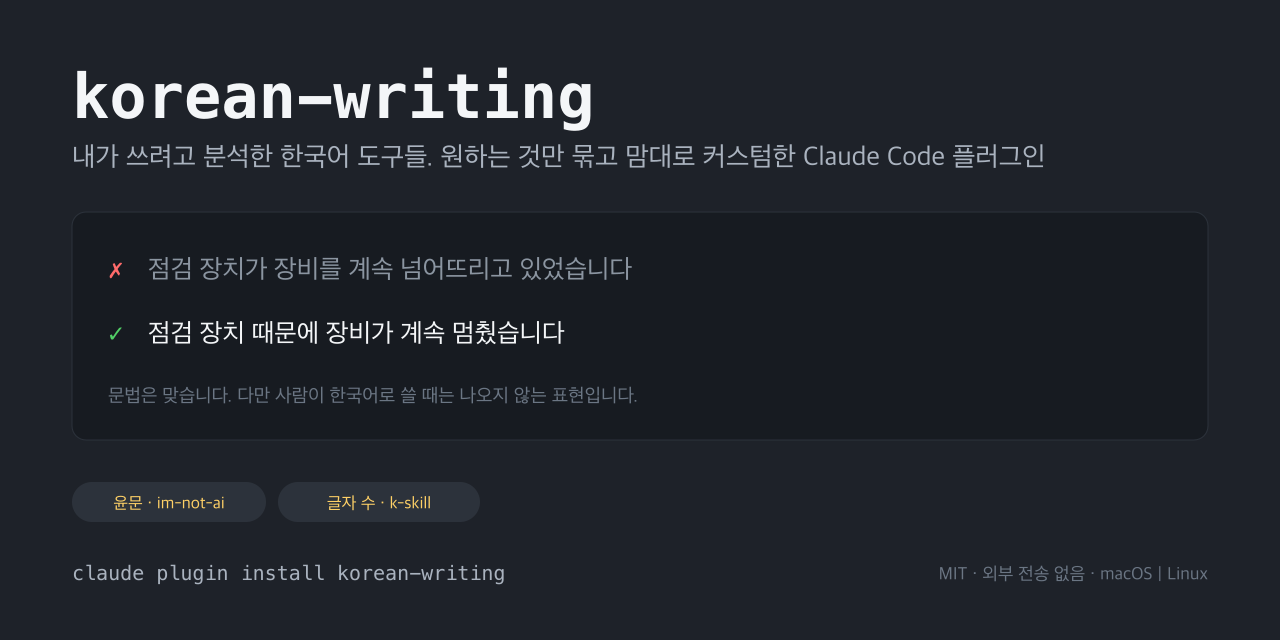
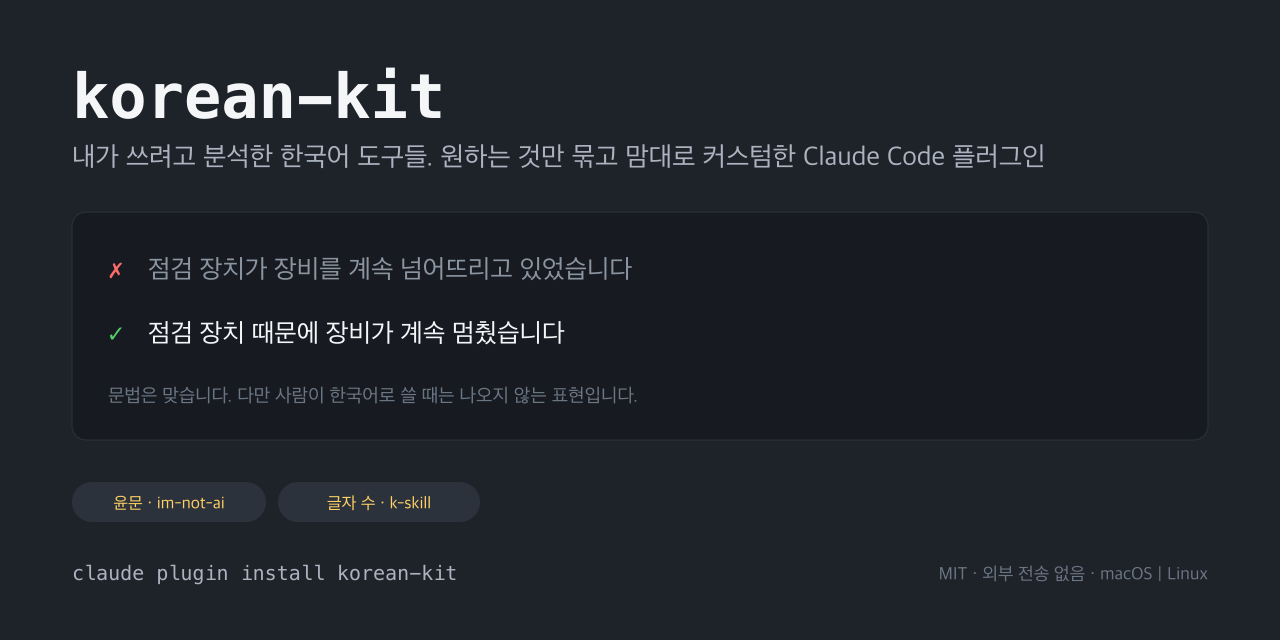
refactor: 이름을 korean-writing 에서 korean-kit 으로 바꿈
작성 스킬을 2026-09-15 에 뺀 뒤로 이 묶음은 글을 쓰지 않습니다. 이미 쓴 글을 다듬거나
글자 수를 셉니다. 이름의 writing 이 없는 기능을 약속하고 있었고, 슬래시 호출도
/korean-writing:humanize 처럼 뜻이 겹쳐 읽혔습니다. kit 은 이 저장소가 스스로 규정한
「원하는 것만 골라 묶은 것」에 맞고, 앞으로 검사 규칙이 들어와도 이름을 다시 바꾸지
않아도 됩니다.

설치와 호출이 이렇게 바뀝니다.

    claude plugin marketplace add IsthisLee/korean-kit
    claude plugin install korean-kit
    /korean-kit:humanize

바꾼 곳은 두 매니페스트의 이름과 주소, 루트 문서 여섯, 이슈 양식 둘, 릴리스 스크립트와
워크플로, CI 전용 npm 패키지 이름, 그림 세 장입니다. 그림은 tools/render-hero.py 로 다시
그렸고 소셜 카드는 PNG 까지 다시 만들었습니다. 잠금 파일은 손으로 고치지 않고
npm install --package-lock-only 로 다시 만들었습니다.

덤으로 옛 훅의 잔재 둘을 치웠습니다. docs/samples/humanize-run.md 첫 줄의 검사 제외
표시와, korean-character-count/SKILL.md 가 없어진 작성 스킬을 가리키던 문장입니다.
후자는 NOTICE.md 에 「원본을 바탕으로 다시 씀」으로 적힌 파일입니다.

이미 깔아 둔 기기는 다시 깔아야 합니다. 매니페스트 이름만 바꾸고 marketplace update 를
돌려도 등록된 이름이 옛것으로 남는 것을 앞선 개명에서 확인했습니다. 옛 저장소 주소는
GitHub 이 새 주소로 넘겨줍니다.

확인: claude plugin validate . --strict 통과, py_compile 9개 통과,
shellcheck 통과, 저장소에 남은 옛 이름은 개명을 설명하는 변경 기록 한 줄뿐.

Changed region(s): [[0.25, 0.0938, 0.4688, 0.2188], [0.3125, 0.875, 0.4062, 0.9062]]

diff --git a/tools/render-hero.py b/tools/render-hero.py
@@ -58,7 +58,7 @@ def render(theme):
     c = THEME[theme]
     o = [f'<svg xmlns="http://www.w3.org/2000/svg" width="{W}" height="{H}" viewBox="0 0 {W} {H}">',
          f'<rect width="{W}" height="{H}" rx="16" fill="{c["bg"]}"/>',
-         t(M, 112, "korean-writing", 56, c["text"], 700, MONO),
+         t(M, 112, "korean-kit", 56, c["text"], 700, MONO),
          t(W - M, 84, TEXT["tag1"], 20, c["dim"], 400, anchor="end"),
          t(W - M, 116, TEXT["tag2"], 24, c["text"], 700, anchor="end"),
          f'<line x1="{M}" y1="148" x2="{W - M}" y2="148" stroke="{c["rule"]}" stroke-width="2"/>',
@@ -78,7 +78,7 @@ def render(theme):
         o.append(f'<rect x="{x:.0f}" y="{y}" width="{sw:.0f}" height="72" rx="12" fill="{c["stage"]}"/>')
         o.append(t(x + 20, y + 30, head, 15, c["chipt"], 700))
         o.append(t(x + 20, y + 54, body, 17, c["text"]))
-    o.append(t(M, H - 36, "claude plugin install korean-writing", 18, c["dim"], 400, MONO))
+    o.append(t(M, H - 36, "claude plugin install korean-kit", 18, c["dim"], 400, MONO))
     o.append(t(W - M, H - 36, TEXT["foot"], 16, c["dim"], 400, anchor="end"))
     o.append("</svg>")
     return "\n".join(o) + "\n"

diff --git a/CHANGELOG.md b/CHANGELOG.md
@@ -12,11 +12,12 @@
 
 ### 변경
 
+- **이름을 `korean-writing` 에서 `korean-kit` 으로 바꿨습니다.** 작성 스킬을 2026-09-15 에 뺀 뒤로 이 묶음은 글을 쓰지 않고 이미 쓴 글을 다듬거나 셉니다. `writing` 이 없는 기능을 약속하고 있었습니다. 저장소·마켓플레이스·플러그인·스킬 이름공간이 모두 바뀌어 설치는 `claude plugin marketplace add IsthisLee/korean-kit` 과 `claude plugin install korean-kit`, 윤문 호출은 `/korean-kit:humanize` 입니다. 이미 깔아 둔 기기는 다시 깔아야 합니다. 매니페스트 이름만 바꾸고 `claude plugin marketplace update` 를 돌려도 등록된 이름이 옛것으로 남는 것을 앞선 개명에서 확인했습니다. 옛 저장소 주소는 GitHub 이 새 주소로 넘겨줍니다
 - **분석 장비와 분석 문서를 별도 저장소로 옮겼습니다.** 사람 글과 Claude 글을 모으고 지표를 재는 스크립트, 분석 계획서, 비교 분석 안내, 파일럿 결과가 [korean-ai-signals](https://github.com/IsthisLee/korean-ai-signals) 로 갔습니다. 옮긴 뒤 계획서는 검증된 외부 지표만 쓰는 판으로 다시 썼고, 두 저장소의 커밋 이력은 이 정리를 마치며 각각 하나로 합쳤습니다. 분석기는 Kiwi·spaCy·SciPy 와 Common Crawl 접속이 필요해서, 네트워크를 쓰지 않고 의존성이 없는 이 플러그인과 한 저장소에 두기 어려웠습니다. 이 저장소에는 결과 요약과 링크만 남습니다
 - **README 를 분석 계획을 마친 상태 기준으로 다시 썼습니다.** 컨셉은 「내가 쓰려고 분석한 한국어 도구들. 원하는 것만 묶고 맘대로 커스텀한 Claude Code 플러그인」입니다. 묶은 기능과 따로 쓰는 것(권하는 output style, AI 신호 검사기)마다 어떻게 골랐는지, 묶으며 고친 것, 비교 순서와 도구 비교 기준, 검사기·output style·윤문 도구의 결과표를 담았습니다. 본 측정 전이라 결과 칸은 「측정 전」으로 두고 맨 위에 그 사실을 적었습니다. 표본을 학습에 쓰지 않고 검사 도구를 검증하는 데만 쓴다는 안내는 그대로 두었습니다. 파일 수정 연도로 사람 글을 추정한 오탐 수치와 기능만 견준 다른 도구 비교표는 뺐습니다
 - **소개 문구를 「내가 쓰려고 분석한 한국어 도구들. 원하는 것만 묶고 맘대로 커스텀한 Claude Code 플러그인」으로 바꿨습니다.** `plugin.json`·`marketplace.json` 의 설명, `tools/render-hero.py` 로 다시 그린 README 맨 위 그림, 소셜 카드 SVG·PNG 를 같이 바꿨습니다
 - **`docs/` 의 그림을 `docs/assets/` 로 모았습니다.** README 두 판의 그림 경로와 `tools/render-hero.py`·`render-hook-output.py`·`render-before-after.py` 의 출력 경로를 함께 고쳤고, 세 스크립트로 다시 그린 결과가 옮기기 전과 같은 파일인 것을 확인했습니다
-- **저장소와 마켓플레이스 이름에서 `claude-` 를 뗐습니다.** 저장소는 `IsthisLee/korean-writing`, 마켓플레이스는 `korean-writing` 입니다. 새로 까는 사람은 `claude plugin marketplace add IsthisLee/korean-writing` 과 `claude plugin install korean-writing@korean-writing` 을 씁니다. 이미 깐 사람은 할 일이 없습니다. 격리한 HOME 에서 옛 이름으로 깔아 둔 뒤 매니페스트의 이름만 바꾸고 `claude plugin marketplace update` 를 돌리니 등록 이름은 `claude-korean-writing` 그대로였고 플러그인도 `korean-writing@claude-korean-writing` 으로 켜져 있었습니다. 새 이름으로 깨끗한 HOME 에 깔아 훅 매니페스트까지 들어가는 것도 확인했습니다. 플러그인 이름과 스킬 이름, 설정 파일 `.korean-writing.json` 은 그대로입니다. 옛 저장소 주소는 GitHub 이 새 주소로 넘겨줍니다
+- **저장소와 마켓플레이스 이름에서 `claude-` 를 뗐습니다.** 저장소는 `IsthisLee/korean-kit`, 마켓플레이스는 `korean-kit` 입니다. 새로 까는 사람은 `claude plugin marketplace add IsthisLee/korean-kit` 과 `claude plugin install korean-kit@korean-kit` 을 씁니다. 이미 깐 사람은 할 일이 없습니다. 격리한 HOME 에서 옛 이름으로 깔아 둔 뒤 매니페스트의 이름만 바꾸고 `claude plugin marketplace update` 를 돌리니 등록 이름은 `claude-korean-kit` 그대로였고 플러그인도 `korean-kit@claude-korean-kit` 으로 켜져 있었습니다. 새 이름으로 깨끗한 HOME 에 깔아 훅 매니페스트까지 들어가는 것도 확인했습니다. 플러그인 이름과 스킬 이름, 설정 파일 `.korean-kit.json` 은 그대로입니다. 옛 저장소 주소는 GitHub 이 새 주소로 넘겨줍니다
 - **README 맨 위를 배너 대신 한 장짜리 그림으로 바꿨습니다.** Claude Code가 실제로 쓴 문장과 규칙대로 고친 문장을 규칙 코드와 함께 큰 글씨로 보여 주고 처음 작성할 때·저장할 때·수정할 때 세 시점을 아래에 둡니다. `tools/render-hero.py` 가 한국어·영어, 어두운 테마·밝은 테마 네 장을 그리고 왼쪽 문장이 정답 데이터에 없으면 멈춥니다. 옛 배너 넷은 지웠습니다
 - **「같은 요청, 두 결과」 그림을 공지에서 칼럼으로 바꾸고 판정자가 짚은 문장만 큰 글씨로 실었습니다.** 공지 예시는 스킬 쪽이 줄글이라 읽기 어렵고 글씨가 작았습니다. 릴리스 노트로도 붙여 봤지만 판정이 순서에 따라 갈려 쓰지 않았습니다(`EVALUATION.md` J)
 - **전후 비교 그림을 같은 자리끼리 짝지어 다시 그렸습니다.** 두 글에서 짚은 문장을 각각 따로 늘어놓으니 무엇과 무엇을 견주는지 보이지 않았습니다. 이제 여는 대목·같은 사실을 말하는 대목·제안하는 대목·마지막 문장을 줄마다 나란히 놓고 판정문에 그대로 나온 표현에만 「판정자가 짚은 곳」 을 답니다. 표시한 표현이 `judge.json` 에 없으면 그림을 그리다 멈춥니다. 한쪽에만 있던 「본문 뒤 안내」는 뺐습니다. 판정에 넣는 본문에서도 걷어내는 부분이라 그림에 실을 자리가 아닙니다
@@ -27,13 +28,13 @@
 
 ### 제거
 
-- **저장할 때 검사하던 훅과 그 규칙, 옛 측정 기록을 전부 뺐습니다.** `PostToolUse` 훅(`plugin/hooks/hooks.json`·`plugin/hooks-handlers/posttooluse.sh`), 판정 스크립트 `plugin/scripts/check.sh`, 슬래시 명령 `/korean-writing:check`, 회귀 테스트 `tests/`, 판정 기준과 측정 기록을 담은 `EVALUATION.md`, 측정 장비 `tools/measure.sh`·`tools/render-hook-output.py`, 훅을 재던 실험 `docs/experiments/`, 규칙 제보용 이슈 양식 둘이 없어졌습니다. K 규칙은 제 경험으로 정한 것이고 사람 글과 비교한 근거가 없었습니다. 검사 규칙은 [korean-ai-signals](https://github.com/IsthisLee/korean-ai-signals) 의 비교 분석에서 검증된 지표가 나오면 그때 새로 만듭니다. 설치해도 저절로 도는 프로그램은 이제 없고, 플러그인 설정 `edit_check`·`disabled_rules` 도 함께 없앴습니다. 커밋 직전 검사(`.githooks/pre-commit`)에는 개인 식별 정보 가드만 남았고, 그 문서 검사를 다른 저장소에 깔아 주던 `tools/install-git-hook.sh` 도 지웠습니다
+- **저장할 때 검사하던 훅과 그 규칙, 옛 측정 기록을 전부 뺐습니다.** `PostToolUse` 훅(`plugin/hooks/hooks.json`·`plugin/hooks-handlers/posttooluse.sh`), 판정 스크립트 `plugin/scripts/check.sh`, 슬래시 명령 `/korean-kit:check`, 회귀 테스트 `tests/`, 판정 기준과 측정 기록을 담은 `EVALUATION.md`, 측정 장비 `tools/measure.sh`·`tools/render-hook-output.py`, 훅을 재던 실험 `docs/experiments/`, 규칙 제보용 이슈 양식 둘이 없어졌습니다. K 규칙은 제 경험으로 정한 것이고 사람 글과 비교한 근거가 없었습니다. 검사 규칙은 [korean-ai-signals](https://github.com/IsthisLee/korean-ai-signals) 의 비교 분석에서 검증된 지표가 나오면 그때 새로 만듭니다. 설치해도 저절로 도는 프로그램은 이제 없고, 플러그인 설정 `edit_check`·`disabled_rules` 도 함께 없앴습니다. 커밋 직전 검사(`.githooks/pre-commit`)에는 개인 식별 정보 가드만 남았고, 그 문서 검사를 다른 저장소에 깔아 주던 `tools/install-git-hook.sh` 도 지웠습니다
 - **영어 README(`README.en.md`)를 뺐습니다.** README 는 한국어판 하나만 둡니다. 한국어 README 의 언어 전환 링크, `tools/release.sh` 와 CI 「버전 표기 일치」의 배지 검사 대상, PR 템플릿의 두 README 동시 수정 항목, SUPPORT.md·CONTRIBUTING.en.md 의 참조를 함께 고쳤습니다
 - **남은 영어 문서와 영어 그림을 뺐습니다.** `CONTRIBUTING.en.md`, `SUPPORT.md` 의 영어 절, 영어 README 만 쓰던 `docs/assets/hero.en.svg`·`hero-light.en.svg` 를 지웠습니다. `tools/render-hero.py` 는 한국어 그림 두 장만 그리고, 고친 스크립트가 그린 결과가 지금의 `hero.svg`·`hero-light.svg` 와 같은 것을 확인했습니다. `CONTRIBUTING.md`·`SUPPORT.md` 의 언어 전환 링크, `CONTRIBUTING.md` 의 README 두 판을 같이 고치라는 안내, PR 템플릿의 영어 기여 안내도 함께 지웠습니다. `SECURITY.md` 의 영어 절은 남겨 두었습니다
 - **뺀 기능을 재던 옛 실험과 문서를 지웠습니다.** 뺀 상시 주입·작성 스킬·저장소 output style 을 재던 `docs/experiments/always-on/`·`output-style/`·`skill-vs-imnotai/`·`writing-skill.md`, `detail-retention/` 의 `injection/`·`skill/`, 그런 문서를 가리키던 `docs/foundations.md`, `EVALUATION.md` 의 B·C·F·G·H·J·L·M·N 절과 그 측정 결과표를 지웠습니다. 남은 `EVALUATION.md` 는 검사 훅의 기준과 기록(A·D·E·I·K·O)입니다. 지우기 전 판은 커밋 `92b1e47` 에 있습니다
 - **지운 기능의 잔여물을 치웠습니다.** README 가 더는 쓰지 않는 칼럼 비교 그림과 그 재료·그림 스크립트(`docs/assets/before-after-column.svg`, `docs/samples/before-after/`, `tools/render-before-after.py`), 뺀 주입과 작성 스킬만 재던 `docs/experiments/task-performance/`, 지운 `sessionstart.sh` 를 실행하던 `docs/experiments/always-on/run.sh`·`settings-on.json` 을 지웠습니다. 지우기 전 판은 커밋 `b2e2089` 에 있습니다. README 두 판의 v2.1.0 안내문(뺀 스킬 적용 확인 기능 소개), 소셜 카드의 「쓸 때 · 작성 스킬」 칸, SECURITY.md 영어 절의 「셸 스크립트 둘」·「쉼표를 파일 전체로 셈」, 두 언어의 「스크립트는 408줄」(실제 379줄)도 고쳤습니다
-- **`korean-writing` 작성 스킬을 뺐습니다.** `/korean-writing` 으로 부르던 스킬이 없어졌습니다. 2026-09-14 부터 스스로 뜨지 않았고 평소 답변의 문체는 사용자가 고른 output style 이 맡고 있었습니다. 그 스킬에는 대명사와 주어를 빼라는 조항도 남아 있어 문장 성분을 살려 쓰라는 지침과 부딪혔습니다(`EVALUATION.md` O). 스킬 본문은 측정을 재현할 수 있도록 `docs/experiments/writing-skill.md` 로 옮겼고 스킬로 다시 잡히지 않게 이름을 바꿨습니다. 매니페스트의 스킬 목록과 설명, README 의 「처음 작성할 때」 시점과 「같은 요청, 두 결과」 예시, 맨 위 그림의 시점 칸을 함께 고쳤습니다. 다른 에이전트에 `npx skills` 로 넣던 `-s korean-writing` 도 없어졌습니다
-- **글 작성 요청에 스스로 뜨던 작성 스킬과 쓰기 전 확인 훅, output style 을 뺐습니다.** 평소 답변의 문체는 사용자가 고른 output style 이 맡습니다. 이 플러그인은 저장할 때의 검사와 윤문과 글자 수 세기를 맡습니다. `plugin/SKILL.md` 에 `disable-model-invocation: true` 를 걸어 `/korean-writing` 으로 직접 부를 때만 돕게 했습니다. 확인 훅(`pretooluse-skill.sh`)과 그 회귀 테스트를 지웠습니다. 검사 훅이 확인 창의 거절 답을 읽던 코드와 그 회귀 테스트 9건도 함께 지웠습니다. output style 파일은 M·N 절 측정을 재현할 수 있도록 `docs/experiments/output-style/` 로 옮겼습니다. 이번 판에 넣었던 「적용하고 설명은 넉넉히」 선택지와 추천 표시, 거절한 글의 검사 제외도 이 변경으로 사라졌습니다
+- **`korean-kit` 작성 스킬을 뺐습니다.** `/korean-kit` 으로 부르던 스킬이 없어졌습니다. 2026-09-14 부터 스스로 뜨지 않았고 평소 답변의 문체는 사용자가 고른 output style 이 맡고 있었습니다. 그 스킬에는 대명사와 주어를 빼라는 조항도 남아 있어 문장 성분을 살려 쓰라는 지침과 부딪혔습니다(`EVALUATION.md` O). 스킬 본문은 측정을 재현할 수 있도록 `docs/experiments/writing-skill.md` 로 옮겼고 스킬로 다시 잡히지 않게 이름을 바꿨습니다. 매니페스트의 스킬 목록과 설명, README 의 「처음 작성할 때」 시점과 「같은 요청, 두 결과」 예시, 맨 위 그림의 시점 칸을 함께 고쳤습니다. 다른 에이전트에 `npx skills` 로 넣던 `-s korean-kit` 도 없어졌습니다
+- **글 작성 요청에 스스로 뜨던 작성 스킬과 쓰기 전 확인 훅, output style 을 뺐습니다.** 평소 답변의 문체는 사용자가 고른 output style 이 맡습니다. 이 플러그인은 저장할 때의 검사와 윤문과 글자 수 세기를 맡습니다. `plugin/SKILL.md` 에 `disable-model-invocation: true` 를 걸어 `/korean-kit` 으로 직접 부를 때만 돕게 했습니다. 확인 훅(`pretooluse-skill.sh`)과 그 회귀 테스트를 지웠습니다. 검사 훅이 확인 창의 거절 답을 읽던 코드와 그 회귀 테스트 9건도 함께 지웠습니다. output style 파일은 M·N 절 측정을 재현할 수 있도록 `docs/experiments/output-style/` 로 옮겼습니다. 이번 판에 넣었던 「적용하고 설명은 넉넉히」 선택지와 추천 표시, 거절한 글의 검사 제외도 이 변경으로 사라졌습니다
 
 ### 수정
 
@@ -64,19 +65,19 @@
 
 ### 추가
 
-- **검사 결과에 걸린 자리를 붙입니다.** 규칙마다 셋까지 파일의 줄 번호와 짧은 발췌를 알림에 붙이고 넘치면 「외 N곳」으로 줄입니다. Claude 가 그 자리만 고치고 걸리지 않은 문장은 건드리지 않게 하려는 것입니다. 판정(코드와 횟수)은 예전 경로로 계산하고 위치는 따로 찾습니다. 이 기계의 한글 `.md` 304개를 옛 훅과 새 훅에 같은 입력으로 넣어 판정이 달라진 파일이 0개인 것을 확인했습니다(`EVALUATION.md` K). 알림대로 고친 글의 정보 보존도 같은 조건의 옛 훅과 차이가 없었습니다(I1 재측정, 정보가 사라진 표본 옛 훅 12건 중 0건, 새 훅 17건 중 1건, Fisher 단측 p=0.586). `plugin/scripts/check.sh` 와 `/korean-writing:check` 도 같은 위치를 냅니다
-- **규칙을 골라 끌 수 있습니다.** 파일 머리 10줄 안의 `<!-- korean-writing: disable K1 K9 -->`, 저장소에 커밋하는 `.korean-writing.json`(`disable` 규칙 목록과 `ignore` 경로 패턴), 환경변수 `KOREAN_WRITING_DISABLE_RULES`, 플러그인 설정 `disabled_rules` 넷입니다. 설정 파일은 편집한 파일에서 위로 올라가며 찾고 `.git` 이 있는 폴더에서 멈춥니다. 읽지 못한 설정은 무시하고 검사한 뒤 그 사실을 알립니다. 끄는 방법은 훅의 알림에 적지 않았습니다. 알림에 있으면 Claude 가 표현을 고치는 대신 규칙을 끌 수 있어서입니다. 회귀 테스트 24건을 더해 검사 훅 테스트가 86건이 됐습니다
-- **Claude Code 밖에서도 작성 규칙을 쓸 수 있습니다.** `npx skills add IsthisLee/claude-korean-writing -s korean-writing -s korean-character-count -g` 로 Codex·Cursor 같은 다른 에이전트에 깔립니다. 격리한 HOME 에서 설치와 글자 수 스크립트 실행까지 확인했고 각 에이전트 안의 동작은 확인하지 못했습니다. 훅과 윤문은 Claude Code 에서만 돕니다
+- **검사 결과에 걸린 자리를 붙입니다.** 규칙마다 셋까지 파일의 줄 번호와 짧은 발췌를 알림에 붙이고 넘치면 「외 N곳」으로 줄입니다. Claude 가 그 자리만 고치고 걸리지 않은 문장은 건드리지 않게 하려는 것입니다. 판정(코드와 횟수)은 예전 경로로 계산하고 위치는 따로 찾습니다. 이 기계의 한글 `.md` 304개를 옛 훅과 새 훅에 같은 입력으로 넣어 판정이 달라진 파일이 0개인 것을 확인했습니다(`EVALUATION.md` K). 알림대로 고친 글의 정보 보존도 같은 조건의 옛 훅과 차이가 없었습니다(I1 재측정, 정보가 사라진 표본 옛 훅 12건 중 0건, 새 훅 17건 중 1건, Fisher 단측 p=0.586). `plugin/scripts/check.sh` 와 `/korean-kit:check` 도 같은 위치를 냅니다
+- **규칙을 골라 끌 수 있습니다.** 파일 머리 10줄 안의 `<!-- korean-kit: disable K1 K9 -->`, 저장소에 커밋하는 `.korean-kit.json`(`disable` 규칙 목록과 `ignore` 경로 패턴), 환경변수 `KOREAN_WRITING_DISABLE_RULES`, 플러그인 설정 `disabled_rules` 넷입니다. 설정 파일은 편집한 파일에서 위로 올라가며 찾고 `.git` 이 있는 폴더에서 멈춥니다. 읽지 못한 설정은 무시하고 검사한 뒤 그 사실을 알립니다. 끄는 방법은 훅의 알림에 적지 않았습니다. 알림에 있으면 Claude 가 표현을 고치는 대신 규칙을 끌 수 있어서입니다. 회귀 테스트 24건을 더해 검사 훅 테스트가 86건이 됐습니다
+- **Claude Code 밖에서도 작성 규칙을 쓸 수 있습니다.** `npx skills add IsthisLee/claude-korean-kit -s korean-kit -s korean-character-count -g` 로 Codex·Cursor 같은 다른 에이전트에 깔립니다. 격리한 HOME 에서 설치와 글자 수 스크립트 실행까지 확인했고 각 에이전트 안의 동작은 확인하지 못했습니다. 훅과 윤문은 Claude Code 에서만 돕니다
 - **작성 스킬이 쓰는 사람의 문체를 따릅니다.** 사용자가 자기 글을 표본으로 주면 종결어미·문장 길이·낱말·문장 부호를 표본에 맞추고 이 규칙보다 표본을 먼저 둡니다. 이미 있는 문서를 고칠 때는 그 문서의 격식을 그대로 둡니다. [humanizer](https://github.com/blader/humanizer) 의 Voice 절과 im-not-ai 규칙집의 register 보존을 따랐습니다. 표본이 없는 과제로 다시 잰 J3 에서 세부 보존은 앞 판과 같았습니다. 고친 블라인드 판정 스크립트로 im-not-ai 윤문본과 기본 네 쌍을 붙여 3승 1패였고 진 쌍은 `~할 수 있다` 가 되풀이된 짧은 공지였습니다(`EVALUATION.md` J)
 - `tools/render-hook-output.py` 가 README 의 훅 출력 그림을 다시 그립니다. 정답 데이터 문장으로 문서를 만들어 실제 훅에 넣고 그 출력을 그대로 옮깁니다. 손으로 그렸던 그림을 누구나 재현할 수 있게 됐습니다
 
 ### 변경
 
-- SECURITY.md 의 「읽는 것」에 `.korean-writing.json` 을 더했습니다. 검사 훅의 import 에 표준 라이브러리 `fnmatch` 가 늘었습니다
+- SECURITY.md 의 「읽는 것」에 `.korean-kit.json` 을 더했습니다. 검사 훅의 import 에 표준 라이브러리 `fnmatch` 가 늘었습니다
 
 ### 제거
 
-- **`crafting-effective-readmes` 스킬을 뺐습니다.** 한국어 산문과 관계없는 README 구조 스킬이었고 설명이 영어라 영어 README 요청에도 떴습니다. 지난 측정값으로 상시 컨텍스트의 스킬 설명 몫 약 70 토큰이 빠집니다. 이 스킬을 쓰던 사람은 원본 [agent-skills](https://github.com/joshuadavidthomas/agent-skills) 에서 받을 수 있습니다. README 를 쓰는 요청의 문장은 계속 `korean-writing` 스킬이 맡습니다
+- **`crafting-effective-readmes` 스킬을 뺐습니다.** 한국어 산문과 관계없는 README 구조 스킬이었고 설명이 영어라 영어 README 요청에도 떴습니다. 지난 측정값으로 상시 컨텍스트의 스킬 설명 몫 약 70 토큰이 빠집니다. 이 스킬을 쓰던 사람은 원본 [agent-skills](https://github.com/joshuadavidthomas/agent-skills) 에서 받을 수 있습니다. README 를 쓰는 요청의 문장은 계속 `korean-kit` 스킬이 맡습니다
 
 ### 수정
 
@@ -86,7 +87,7 @@
 
 ### 추가
 
-- **모델이 `korean-writing` 스킬을 스스로 부르기 전에 적용할지 묻습니다.** 새 PreToolUse 훅 `pretooluse-skill.sh` 가 이 스킬의 `Skill` 호출에 `permissionDecision: "ask"` 를 돌려줍니다. 문체 규칙을 답변에 주입했을 때 세부가 빠진 것(`EVALUATION.md` H13)과 같은 규칙집을 쓰므로 세부를 잃으면 안 되는 문서라면 쓰기 전에 거절할 수 있게 했습니다. 거절하면 규칙 없이 씁니다. 헤드리스 실측에서 평범한 글 요청에 모델이 스스로 이 스킬을 부를 때 훅이 걸렸고 기본 모드와 bypass 모드 모두 확인 없이는 스킬이 돌지 않았습니다. 사용자가 `/korean-writing` 을 직접 친 실행은 훅에 걸리지 않았습니다. 대화형 세션의 확인 창은 공식 문서의 설명이고 직접 보지는 못했습니다. 다른 스킬과 도구는 그대로 지나가고 `KOREAN_WRITING_HOOK_DISABLED=1` 이면 묻지 않습니다. 묻는 문장은 한국어이고 모델이 넘긴 요청 요약을 60자까지 「」 안에 보여 줍니다. 예: 「운영팀에 보낼 슬랙 공지를 3줄로 작성…」 작성에 korean-writing 문체 규칙을 적용할까요? 요청에 적은 내용은 그대로 담지만 Claude 가 덧붙이는 설명은 짧아질 수 있습니다. 이 주의 문구는 스킬로 직접 잰 결과만큼만 말합니다(`EVALUATION.md` J3). 요청에 적어 준 사실 27항목은 스킬을 켜도 모두 담겼고, 사실을 주지 않은 설명 문서는 한글 661자에서 450자로 짧아지며 곁가지 설명 하나가 8/8 에서 3/8 로 줄었습니다. 같은 글자 수의 무관한 문서를 붙인 대조군에서는 그런 차이가 없었습니다. 확인 창에 이 사유가 보이는지 공식 문서에 적혀 있지 않아 같은 문장을 `systemMessage` 로도 냅니다. 회귀 테스트 22건을 `tests/test_pretooluse.py` 로 넣었습니다
+- **모델이 `korean-kit` 스킬을 스스로 부르기 전에 적용할지 묻습니다.** 새 PreToolUse 훅 `pretooluse-skill.sh` 가 이 스킬의 `Skill` 호출에 `permissionDecision: "ask"` 를 돌려줍니다. 문체 규칙을 답변에 주입했을 때 세부가 빠진 것(`EVALUATION.md` H13)과 같은 규칙집을 쓰므로 세부를 잃으면 안 되는 문서라면 쓰기 전에 거절할 수 있게 했습니다. 거절하면 규칙 없이 씁니다. 헤드리스 실측에서 평범한 글 요청에 모델이 스스로 이 스킬을 부를 때 훅이 걸렸고 기본 모드와 bypass 모드 모두 확인 없이는 스킬이 돌지 않았습니다. 사용자가 `/korean-kit` 을 직접 친 실행은 훅에 걸리지 않았습니다. 대화형 세션의 확인 창은 공식 문서의 설명이고 직접 보지는 못했습니다. 다른 스킬과 도구는 그대로 지나가고 `KOREAN_WRITING_HOOK_DISABLED=1` 이면 묻지 않습니다. 묻는 문장은 한국어이고 모델이 넘긴 요청 요약을 60자까지 「」 안에 보여 줍니다. 예: 「운영팀에 보낼 슬랙 공지를 3줄로 작성…」 작성에 korean-kit 문체 규칙을 적용할까요? 요청에 적은 내용은 그대로 담지만 Claude 가 덧붙이는 설명은 짧아질 수 있습니다. 이 주의 문구는 스킬로 직접 잰 결과만큼만 말합니다(`EVALUATION.md` J3). 요청에 적어 준 사실 27항목은 스킬을 켜도 모두 담겼고, 사실을 주지 않은 설명 문서는 한글 661자에서 450자로 짧아지며 곁가지 설명 하나가 8/8 에서 3/8 로 줄었습니다. 같은 글자 수의 무관한 문서를 붙인 대조군에서는 그런 차이가 없었습니다. 확인 창에 이 사유가 보이는지 공식 문서에 적혀 있지 않아 같은 문장을 `systemMessage` 로도 냅니다. 회귀 테스트 22건을 `tests/test_pretooluse.py` 로 넣었습니다
 
 ### 변경
 
@@ -111,7 +112,7 @@
 - **네트워크를 쓰지 않는다는 약속을 CI 가 지킵니다.** README 와 SECURITY.md 가 전부터 이것을 약속했는데 지키는 것은 사람의 주의뿐이었습니다. 설치본인 `plugin/` 아래 실행 파일 16개에서 `urllib`·`socket`·`fetch(`·`curl`·`wget` 같은 표지를 찾고 하나라도 있으면 막습니다. 훅에 `curl` 한 줄, 내장 스크립트에 `import urllib.request` 한 줄을 심어 둘 다 파일과 줄 번호까지 잡는 것을 확인했고 같은 단어를 주석에만 넣었을 때는 걸리지 않았습니다. `plugin/` 에서 실행 파일을 하나도 찾지 못하면 경로가 바뀐 것으로 보고 그것부터 알립니다
 - **OpenSSF Scorecard 를 매주 돌립니다.** 브랜치 보호, 리뷰 여부, 액션 고정, 위험한 워크플로 패턴, 토큰 권한을 점수로 냅니다. 결과는 Security 탭에 올라갑니다. 아직 한 번도 돌지 않아 점수를 적지 못합니다
 
-- **`/korean-writing:check` 를 넣었습니다.** 써 둔 문서를 편집 훅과 같은 기준으로 검사하고 걸린 자리를 짚은 뒤 고칠지 묻습니다. 전에는 `scripts/check.sh` 가 저장소 안에만 있어 플러그인을 설치한 사람은 이미 저장한 문서를 검사할 방법이 없었습니다
+- **`/korean-kit:check` 를 넣었습니다.** 써 둔 문서를 편집 훅과 같은 기준으로 검사하고 걸린 자리를 짚은 뒤 고칠지 묻습니다. 전에는 `scripts/check.sh` 가 저장소 안에만 있어 플러그인을 설치한 사람은 이미 저장한 문서를 검사할 방법이 없었습니다
 - **플러그인 설정으로 검사 훅을 끕니다.** `plugin.json` 에 `userConfig` 를 넣어 `edit_check` 를 `/plugin` 에서 켜고 끕니다. 환경변수도 그대로 듣습니다. 매니페스트에 `license` 와 `homepage` 도 넣었습니다
 - **주입이 일을 방해하지 않는지 재는 실험을 넣었습니다.** 이 저장소의 측정은 전부 글이 좋아졌는가만 봤고 규칙을 넣어서 모델이 일을 덜 잘하게 되는지는 잰 적이 없었습니다. `docs/experiments/task-performance/` 가 넷을 봅니다. 기술 문제 정답률(Haiku 40/40 대 39/40, Opus 30/30 대 29/30), 규칙과 반대되는 것을 사용자가 명시로 요청했을 때의 준수(주입 있음 25/25, 주입 없음 23/25), 코드 품질(모델이 쓴 함수를 실제로 돌려 숨은 테스트에 넣습니다. 양쪽 만점이라 이 과제로는 못 가립니다), 설계 능력(빠지면 설계가 틀리는 개념이 나왔는지 셉니다. 여기서 저하가 나왔습니다), 서브에이전트 조사 정확도와 답변 언어(양쪽 6/6, 한글 누출 2% 이하), 코드 작업에서의 스킬 오발동(양쪽 0건, 양성 대조 1건)입니다. 정답률은 두 조건이 거의 만점이라 10%p 를 넘는 저하만 배제됩니다. 그 한계를 EVALUATION.md 의 H 절에 적었습니다
 - **재는 영역을 넷 더 넓혔습니다.** 코드 리뷰(심어 둔 결함 다섯을 몇 개 찾는가), 정보 보존(요약이 원문의 사실 열둘을 얼마나 지키는가), 과잉 단정(정보가 없을 때 없다고 말하는가), 디버깅(원인이 되는 줄을 짚는가)입니다. 넷 다 차이 구간이 0 을 품습니다. 주입을 받은 쪽이 대체로 짧은데(리뷰 1,172자 대 928자, 요약 1,320자 대 1,030자) 결함 검출과 사실 보존은 갈리지 않았습니다. 설계와 다른 점은 열거할 항목이 정해져 있느냐입니다. 판정 기준은 `EVALUATION.md` 의 H7~H10 입니다
@@ -121,7 +122,7 @@
 - **`scripts/install-git-hook.sh`.** 커밋 직전에 스테이지된 `.md` 를 검사하는 git 훅을 깝니다. README 가 전부터 pre-commit 을 약속하고 있었는데 깔 방법이 없었습니다. 이미 다른 `pre-commit` 이 있으면 덮어쓰지 않고 넣을 두 줄만 알려 줍니다
 - **`scripts/check.sh --all`.** `git ls-files` 로 저장소가 쓴 `.md` 를 열거해 검사합니다. 가져온 파일만 뺍니다
 
-- **`korean-writing` 스킬을 im-not-ai 규칙집 수준으로 올렸습니다.** 그 규칙집의 `quick: true` 항목 61개 가운데 처방을 가진 것이 21개였는데 60개가 됐습니다(남은 하나 G-3 은 규칙집이 실증 부족으로 보류한 항목입니다). 빠져 있던 것 중 둘이 그 규칙집의 실측 최강 신호입니다. `A가 아니라 B다` 부정 대구(사람 대비 밀도 9.2배)와 `~하고,` 처럼 연결어미 뒤에 찍는 쉼표(KatFish 측정에서 사람 4.1% 대 AI 19.8%)입니다. 대명사·이중 조사·좌향 수식·만능 동사·사전 은유·결말 공식·명사화 누적 등도 새로 넣고 「글을 끝낼 때」 절을 신설했습니다
+- **`korean-kit` 스킬을 im-not-ai 규칙집 수준으로 올렸습니다.** 그 규칙집의 `quick: true` 항목 61개 가운데 처방을 가진 것이 21개였는데 60개가 됐습니다(남은 하나 G-3 은 규칙집이 실증 부족으로 보류한 항목입니다). 빠져 있던 것 중 둘이 그 규칙집의 실측 최강 신호입니다. `A가 아니라 B다` 부정 대구(사람 대비 밀도 9.2배)와 `~하고,` 처럼 연결어미 뒤에 찍는 쉼표(KatFish 측정에서 사람 4.1% 대 AI 19.8%)입니다. 대명사·이중 조사·좌향 수식·만능 동사·사전 은유·결말 공식·명사화 누적 등도 새로 넣고 「글을 끝낼 때」 절을 신설했습니다
 - **검사 훅에 `K9` 부정 대구와 `K10` 연결어미 뒤 쉼표를 넣었습니다.** 임계는 이 머신의 한국어 `.md` 205개로 정했습니다. 대구 3회 이상, 쉼표는 6회 이상이면서 연결어미의 30% 이상일 때 알립니다. 2023년 이전에 쓰인 문서 32개에서 오탐은 0건입니다. 쉼표는 줄표와 같은 이유로 파일 전체를 셉니다
 - **`docs/experiments/skill-vs-imnotai/` 를 상설 게이트로 넣었습니다.** 스킬로 처음부터 쓴 글과 규칙 없이 쓴 뒤 im-not-ai 로 윤문한 글을 블라인드로 붙입니다. 단문은 Fast Path 한 콜, 장문은 정밀 3콜(진단·윤문·마무리)로 윤문하고 결합 입력은 저장소의 `scripts/prepare_monolith_input.py` 가 만듭니다. 스킬이 진 쌍이 더 많으면 종료 코드 1입니다. `SKILL.md` 를 고쳤으면 릴리스 전에 돌립니다
 - **스킬에 「리듬」 절을 넣었습니다.** 규칙을 늘린 초판은 표지를 크게 줄이고도 블라인드 쌍대 판정에서 옛 스킬을 이기지 못했습니다(5승 6패). 판정자가 되풀이해 지적한 것은 문장 길이가 고르게 짧다는 것이었고, 재 보니 표준편차가 16.28에서 12.93으로 떨어져 있었습니다. 규칙을 지키려다 문장을 자른 것이고 길이 균일성은 규칙집의 E-1 항목입니다. 문단마다 100자 안팎의 긴 문장을 하나 두라는 규칙을 넣으니 표준편차가 18.97로 올라 네 조건 중 가장 높아졌고 판정도 뒤집혔습니다
@@ -148,13 +149,13 @@
 
 - **설명 문서를 실제 구현과 전수 대조했습니다.** README 한국어판·영어판, `SECURITY.md`, `EVALUATION.md` 에서 틀린 값 스물여섯 곳을 고쳤습니다. 실측 문서 수(143→205), 회귀 건수(63→79), 상시 규칙 항목 수(아홉→열), 훅 스크립트 줄 수(173→234), CI 검사 문서 수(12→14), 파일 크기 표, 서브에이전트용 규칙 스니펫입니다. 저장소 구성 트리에 `docs/samples/` 와 `docs/experiments/` 둘이 빠져 있어 넣었습니다
 - **`EVALUATION.md` 의 「측정 중 고친 것」 절이 편집 중에 통째로 사라져 있었습니다.** 열여섯 건이 지워졌고 헤딩 둘이 중복돼 있었습니다. README 전수 대조 중에 「그렇게 바꾼 열세 건」 이라는 문장의 근거를 세다가 발견했습니다. git 에서 되살리고 이번에 고친 여섯 건을 17~22번으로 더했습니다
-- **제외 표시가 문서 일곱 종의 자기 검사를 꺼 놓고 있었습니다.** 훅이 `korean-writing: ignore` 라는 문자열이 어디에 있든 검사를 건너뛰어서, 이 기능을 설명하는 README·CLAUDE.md·CHANGELOG 등이 자기 검사를 통째로 넘겼습니다. 이제 파일 앞 열 줄에 줄 하나로 선 `<!-- korean-writing: ignore -->` 만 지시로 봅니다. 실제로 끄려고 붙인 표시 여섯 개는 전부 1행에 있어 그대로 동작합니다
+- **제외 표시가 문서 일곱 종의 자기 검사를 꺼 놓고 있었습니다.** 훅이 `korean-kit: ignore` 라는 문자열이 어디에 있든 검사를 건너뛰어서, 이 기능을 설명하는 README·CLAUDE.md·CHANGELOG 등이 자기 검사를 통째로 넘겼습니다. 이제 파일 앞 열 줄에 줄 하나로 선 `<!-- korean-kit: ignore -->` 만 지시로 봅니다. 실제로 끄려고 붙인 표시 여섯 개는 전부 1행에 있어 그대로 동작합니다
 - `scripts/measure.sh` 가 두 자리 코드를 세지 못했습니다. 집계 정규식이 `K\d` 라 `K10` 줄이 코드별 표에서 빠졌습니다
 - 저장소의 산문 문서를 새 판정에 맞춰 고쳤습니다. 연결어미 뒤 쉼표 86개를 지우고 부정 대구를 문서마다 둘 이하로 줄였습니다
 - CI 의 자기 검사 대상에 `README.en.md` 를 넣었습니다
 
-- **im-not-ai 의 윤문 파이프라인을 내장했습니다.** 커밋 `9747f036cdc2`(2026-09-06)의 런타임 부분집합을 그대로 넣었습니다. 스킬 셋(`humanize-korean`·`humanize`·`humanize-redo`), 에이전트 셋(진단·윤문·마무리 검토), 파이썬 스크립트 아홉, 규칙집과 참조 문서입니다. `/korean-writing:humanize` 와 `/korean-writing:humanize-redo` 로 부르고 "AI 티 없애줘" 같은 요청에는 `humanize-korean` 스킬이 뜹니다. 가져온 파일에서 고친 것은 스킬 설명의 트리거 문구 하나뿐입니다(NOTICE.md). 개발용 에이전트 여섯은 싣지 않았습니다
-- 격리된 HOME 에서 확인했습니다. 설치 뒤 `/humanize` 자동완성에 `/korean-writing:` 셋만 뜨고 `/korean-writing:humanize` 에 AI 티를 몰아넣은 200자 문단을 넣으니 세 콜이 끝까지 돌아 변경률 39%, 등급 A-, 자체검증 6/6 으로 끝났습니다(451초, 1.64달러). 기록은 `docs/samples/humanize-run.md` 에 있습니다
+- **im-not-ai 의 윤문 파이프라인을 내장했습니다.** 커밋 `9747f036cdc2`(2026-09-06)의 런타임 부분집합을 그대로 넣었습니다. 스킬 셋(`humanize-korean`·`humanize`·`humanize-redo`), 에이전트 셋(진단·윤문·마무리 검토), 파이썬 스크립트 아홉, 규칙집과 참조 문서입니다. `/korean-kit:humanize` 와 `/korean-kit:humanize-redo` 로 부르고 "AI 티 없애줘" 같은 요청에는 `humanize-korean` 스킬이 뜹니다. 가져온 파일에서 고친 것은 스킬 설명의 트리거 문구 하나뿐입니다(NOTICE.md). 개발용 에이전트 여섯은 싣지 않았습니다
+- 격리된 HOME 에서 확인했습니다. 설치 뒤 `/humanize` 자동완성에 `/korean-kit:` 셋만 뜨고 `/korean-kit:humanize` 에 AI 티를 몰아넣은 200자 문단을 넣으니 세 콜이 끝까지 돌아 변경률 39%, 등급 A-, 자체검증 6/6 으로 끝났습니다(451초, 1.64달러). 기록은 `docs/samples/humanize-run.md` 에 있습니다
 - CI 에 내장 스크립트의 `py_compile` 과 `--help` 실행 확인 단계
 - README 머리에 정답 문장 넷을 전후 표로 보였습니다
 
@@ -209,7 +210,7 @@
 - **상시 규칙을 넣으며 남겼던 세 가지를 전부 쟀습니다.** 서브에이전트에는 훅도 스킬도 전달되지 않아 플러그인 범위 밖으로 두고 쓰는 쪽 `CLAUDE.md` 에 넣도록 안내합니다. 긴 대화에서는 30턴을 쌓은 뒤에도 주입 조건이 네 쌍 모두 이깁니다. 규칙을 고쳤을 때의 회귀는 `docs/experiments/always-on/regress.sh` 로 봅니다. 근거는 EVALUATION.md 의 「상시 규칙을 넣으며 남겼던 것」에 있습니다
 - 실험 장비를 `docs/experiments/always-on/` 에 보존했습니다. 스크립트, 프롬프트 12개, 주입문 초안, 판정 기준과 결과 보고입니다. README 에 `--strict-mcp-config` 와 `--setting-sources ""` 를 빠뜨렸을 때 무슨 일이 생기는지 먼저 적었습니다
 
-- `korean-writing` 스킬이 맡는 범위를 "밖으로 나갈 글" 에서 "글 작성 요청" 으로 넓혔습니다. 슬랙·메일·보고서처럼 남에게 보내는 글만이 아니라 회의록·작업 메모처럼 안에서 보는 글도, 써 달라는 요청이면 스킬이 로드됩니다. 코드만 쓰는 작업은 그대로 대상이 아닙니다. 스킬 설명과 README 두 판, CLAUDE.md, EVALUATION.md 의 표현을 맞췄습니다. 설명이 길어져 `/context` 기준 약 50토큰에서 70토큰이 됐습니다
+- `korean-kit` 스킬이 맡는 범위를 "밖으로 나갈 글" 에서 "글 작성 요청" 으로 넓혔습니다. 슬랙·메일·보고서처럼 남에게 보내는 글만이 아니라 회의록·작업 메모처럼 안에서 보는 글도, 써 달라는 요청이면 스킬이 로드됩니다. 코드만 쓰는 작업은 그대로 대상이 아닙니다. 스킬 설명과 README 두 판, CLAUDE.md, EVALUATION.md 의 표현을 맞췄습니다. 설명이 길어져 `/context` 기준 약 50토큰에서 70토큰이 됐습니다
 - **목적을 "Claude Code 가 쓰는 모든 한국어" 로 넓혔습니다.** 이전에는 글 작성 요청과 `.md` 편집만 맡아서 가장 양이 많은 평소 답변이 비어 있었습니다. README 에 어느 자리를 맡고 어느 자리를 안 맡는지 적은 표를 넣었습니다
 - EVALUATION.md 의 D2 예산을 상시 500 토큰에서 1,000 토큰으로 올렸습니다. 상시 규칙 662 토큰이 들어가면서 합계가 약 950 이 됩니다. 시험한 규칙을 그대로 넣고 예산을 다시 잡았습니다
 - CI 를 macOS 와 Linux 양쪽에서 돌립니다. 훅은 bash 와 python3 만 쓰므로 platform 배지를 `macOS | Linux` 로 고쳤습니다
@@ -226,12 +227,12 @@
 
 ### 추가
 
-- `korean-writing` 스킬: 밖으로 나갈 글을 처음 쓸 때 번역투·AI 관용구를 피하는 원칙과 교정 예시
+- `korean-kit` 스킬: 밖으로 나갈 글을 처음 쓸 때 번역투·AI 관용구를 피하는 원칙과 교정 예시
 - `humanize-korean` 스킬: 이미 쓴 글을 사실 불변으로 다듬는 윤문 (claude-forge에서 이식)
 - `korean-character-count` 스킬: grapheme 기준 글자 수 (k-skill에서 이식)
 - `crafting-effective-readmes` 스킬: README의 절 구성을 프로젝트 유형(오픈소스·개인·사내·설정)에 맞춰 잡습니다 (agent-toolkit에서 이식)
 - PostToolUse 훅: `.md` 편집 시 이번에 쓴 부분만 AI 티 패턴 K1~K8로 검사합니다. 편집을 되돌리지 않고 알리기만 합니다. 코드블록·인라인 코드·URL·표 행은 검사하지 않고 편집분의 한글 비중이 30% 미만이면 한글 비중 30% 이상인 줄만 모아 다시 봅니다. 줄표는 이번 편집에 하나라도 있으면 파일 전체 개수로 판정합니다(문단씩 고치며 쌓이는 것). `~~~` 코드블록과 HTML 주석도 검사에서 뺍니다. K7 은 "죽다" 를 잡지 않고 K8 은 `~에 대해`·`~를 통해` 횟수를 세지 않습니다(실제 문서 143개 실측)
-- 훅 끄기 수단 두 가지. 파일 머리의 `<!-- korean-writing: ignore -->` 표시(그 파일만), 환경변수 `KOREAN_WRITING_HOOK_DISABLED=1`(세션 전체). python3 가 없으면 검사 없이 통과합니다
+- 훅 끄기 수단 두 가지. 파일 머리의 `<!-- korean-kit: ignore -->` 표시(그 파일만), 환경변수 `KOREAN_WRITING_HOOK_DISABLED=1`(세션 전체). python3 가 없으면 검사 없이 통과합니다
 - `scripts/check.sh`: 이미 써 둔 문서를 통째로 훅과 같은 기준으로 검사합니다. 걸리면 종료 코드 1이라 CI·pre-commit 에 그대로 씁니다
 - `scripts/release.sh`: 버전·CHANGELOG·README 배지·커밋·태그를 한 번에. 버전의 정본은 `plugin.json` 한 곳입니다
 - 검증 기준(`EVALUATION.md`): 실제 실패 문장 10건과 정상 문장 5건으로 만든 훅 정확도 기준, 스킬 트리거 기준, 사용하는 사람의 기준. 회귀 테스트 43건
@@ -239,10 +240,10 @@
 - README 한국어판·영어판, 훅 출력 데모 이미지(`docs/hook-output.svg`)
 - 제3자 고지(`NOTICE.md`): im-not-ai·claude-forge·k-skill·agent-toolkit 의 원 저작권 표시
 
-[Unreleased]: https://github.com/IsthisLee/korean-writing/compare/v2.1.0...HEAD
-[2.1.0]: https://github.com/IsthisLee/korean-writing/compare/v2.0.0...v2.1.0
-[2.0.0]: https://github.com/IsthisLee/korean-writing/compare/v1.3.0...v2.0.0
-[1.3.0]: https://github.com/IsthisLee/korean-writing/compare/v1.2.0...v1.3.0
-[1.2.0]: https://github.com/IsthisLee/korean-writing/compare/v1.1.0...v1.2.0
-[1.1.0]: https://github.com/IsthisLee/korean-writing/compare/v1.0.0...v1.1.0
-[1.0.0]: https://github.com/IsthisLee/korean-writing/releases/tag/v1.0.0
+[Unreleased]: https://github.com/IsthisLee/korean-kit/compare/v2.1.0...HEAD
+[2.1.0]: https://github.com/IsthisLee/korean-kit/compare/v2.0.0...v2.1.0
+[2.0.0]: https://github.com/IsthisLee/korean-kit/compare/v1.3.0...v2.0.0
+[1.3.0]: https://github.com/IsthisLee/korean-kit/compare/v1.2.0...v1.3.0
+[1.2.0]: https://github.com/IsthisLee/korean-kit/compare/v1.1.0...v1.2.0
+[1.1.0]: https://github.com/IsthisLee/korean-kit/compare/v1.0.0...v1.1.0
+[1.0.0]: https://github.com/IsthisLee/korean-kit/releases/tag/v1.0.0

diff --git a/SUPPORT.md b/SUPPORT.md
@@ -5,11 +5,11 @@
 | 상황                         | 가는 곳                                                                                                            |
 | ---------------------------- | ------------------------------------------------------------------------------------------------------------------ |
 | 설치와 사용법을 모르겠다     | [README](README.md) 의 설치 절부터 봅니다                                                                            |
-| 윤문이 뜻을 바꿨다           | [버그 이슈](https://github.com/IsthisLee/korean-writing/issues/new?template=bug.yml) 에 원문과 결과를 함께 보냅니다  |
-| 스킬이나 스크립트가 죽는다   | [버그 이슈](https://github.com/IsthisLee/korean-writing/issues/new?template=bug.yml)                                 |
+| 윤문이 뜻을 바꿨다           | [버그 이슈](https://github.com/IsthisLee/korean-kit/issues/new?template=bug.yml) 에 원문과 결과를 함께 보냅니다  |
+| 스킬이나 스크립트가 죽는다   | [버그 이슈](https://github.com/IsthisLee/korean-kit/issues/new?template=bug.yml)                                 |
 | 무엇을 AI 티로 보는지 궁금하다 | 사람 글과 Claude 글을 비교하는 분석을 따로 합니다. [korean-ai-signals](https://github.com/IsthisLee/korean-ai-signals) 에 있습니다 |
-| 취약점을 찾았다              | 공개 이슈로 올리지 말고 [비공개 신고](https://github.com/IsthisLee/korean-writing/security/advisories/new)            |
-| 무엇을 묶을지 의논하고 싶다  | [Discussions](https://github.com/IsthisLee/korean-writing/discussions)                                               |
+| 취약점을 찾았다              | 공개 이슈로 올리지 말고 [비공개 신고](https://github.com/IsthisLee/korean-kit/security/advisories/new)            |
+| 무엇을 묶을지 의논하고 싶다  | [Discussions](https://github.com/IsthisLee/korean-kit/discussions)                                               |
 | 고쳐서 보내고 싶다           | [CONTRIBUTING.md](CONTRIBUTING.md)                                                                                   |
 
 ## 이슈를 열 때 넣어 주시면 좋은 것

diff --git a/CLAUDE.md b/CLAUDE.md
@@ -35,7 +35,7 @@ docs/assets 그림
 
 ```bash
 HOME=/tmp/kw-home claude plugin marketplace add "$PWD"
-HOME=/tmp/kw-home claude plugin install korean-writing@korean-writing
+HOME=/tmp/kw-home claude plugin install korean-kit@korean-kit
 find /tmp/kw-home/.claude/plugins/cache -type f | wc -l    # 설치본 파일 수
 ```
 
@@ -60,7 +60,7 @@ node plugin/skills/korean-character-count/scripts/korean_character_count.js --te
 
 `plugin/skills/humanize-korean/**`, `plugin/skills/humanize/**`, `plugin/skills/humanize-redo/**`, `plugin/agents/**`, `plugin/scripts/*.py`, `plugin/skills/korean-character-count/scripts/**` 는 다른 MIT 프로젝트에서 가져온 파일입니다. 출처와 수정 범위가 [plugin/NOTICE.md](plugin/NOTICE.md) 에 적혀 있습니다. 고쳐야 하면 그 파일의 해당 줄도 함께 고칩니다.
 
-윤문 파이프라인은 im-not-ai 의 런타임 부분집합을 그대로 내장한 것입니다. 새 판을 받으려면 원본 저장소를 그 커밋으로 받아 같은 경로에 복사하고 plugin/NOTICE.md 에 적힌 한 줄 수정(트리거 문구)을 다시 적용한 뒤, `python3 -m py_compile plugin/scripts/*.py` 와 격리된 HOME 에서 `/korean-writing:humanize` 실행으로 확인하고 plugin/NOTICE.md 의 커밋을 올립니다. 스크립트는 `plugin/scripts/` 와 `plugin/skills/humanize-korean/references/` 의 상대 위치로 서로를 찾으므로 둘의 관계를 바꾸지 않습니다.
+윤문 파이프라인은 im-not-ai 의 런타임 부분집합을 그대로 내장한 것입니다. 새 판을 받으려면 원본 저장소를 그 커밋으로 받아 같은 경로에 복사하고 plugin/NOTICE.md 에 적힌 한 줄 수정(트리거 문구)을 다시 적용한 뒤, `python3 -m py_compile plugin/scripts/*.py` 와 격리된 HOME 에서 `/korean-kit:humanize` 실행으로 확인하고 plugin/NOTICE.md 의 커밋을 올립니다. 스크립트는 `plugin/scripts/` 와 `plugin/skills/humanize-korean/references/` 의 상대 위치로 서로를 찾으므로 둘의 관계를 바꾸지 않습니다.
 
 ## 버전
 

diff --git a/CONTRIBUTING.md b/CONTRIBUTING.md
@@ -8,7 +8,7 @@
 
 그래서 가장 값진 기여는 코드가 아니라 문장입니다.
 
-- Claude 가 쓴 어색한 한국어를 봤다면 [버그 이슈](https://github.com/IsthisLee/korean-writing/issues/new?template=bug.yml) 로 보내 주세요. 고치지 않은 원문 그대로가 필요합니다.
+- Claude 가 쓴 어색한 한국어를 봤다면 [버그 이슈](https://github.com/IsthisLee/korean-kit/issues/new?template=bug.yml) 로 보내 주세요. 고치지 않은 원문 그대로가 필요합니다.
 - 윤문이 뜻을 바꾸거나 사실을 지운 사례도 같은 양식으로 보내 주세요. 뜻을 잃는 것은 AI 티가 남는 것보다 심각합니다.
 
 ## 시작하기
@@ -16,8 +16,8 @@
 빌드가 없습니다. 받아서 바로 돌리면 됩니다.
 
 ```bash
-git clone https://github.com/IsthisLee/korean-writing
-cd korean-writing
+git clone https://github.com/IsthisLee/korean-kit
+cd korean-kit
 git config core.hooksPath .githooks   # 커밋 직전 검사: 개인 식별 정보 가드
 
 python3 -m py_compile plugin/scripts/*.py

diff --git a/docs/samples/humanize-run.md b/docs/samples/humanize-run.md
@@ -1,7 +1,6 @@
-<!-- korean-writing: ignore -->
 # 내장 윤문 파이프라인을 실제로 돌린 기록 (2026-09-10)
 
-`/korean-writing:humanize` 에 AI 티를 일부러 몰아넣은 200자 문단을 넣었다. 조건: 실제 로그인, `claude -p --setting-sources "" --strict-mcp-config --plugin-dir <저장소> --dangerously-skip-permissions --max-turns 40`, 작업 트리의 플러그인, 격리된 작업 폴더. 걸린 시간 451초, 비용 1.64달러, 턴 16, 서브에이전트 3종 호출·3종 완료, 모델 claude-sonnet-5, claude-opus-5.
+`/korean-kit:humanize` 에 AI 티를 일부러 몰아넣은 200자 문단을 넣었다. 조건: 실제 로그인, `claude -p --setting-sources "" --strict-mcp-config --plugin-dir <저장소> --dangerously-skip-permissions --max-turns 40`, 작업 트리의 플러그인, 격리된 작업 폴더. 걸린 시간 451초, 비용 1.64달러, 턴 16, 서브에이전트 3종 호출·3종 완료, 모델 claude-sonnet-5, claude-opus-5.
 
 ## 입력
 

diff --git a/plugin/skills/korean-character-count/SKILL.md b/plugin/skills/korean-character-count/SKILL.md
@@ -59,4 +59,4 @@ bytes_neis                      NEIS 기준 바이트
 
 ## 이 스킬이 아닌 것
 
-문체 교정은 `korean-writing`, 이미 쓴 글 윤문은 `humanize-korean`이다. 이 스킬은 **세기만** 한다.
+이미 쓴 글 윤문은 `humanize-korean`이다. 이 스킬은 **세기만** 한다.
